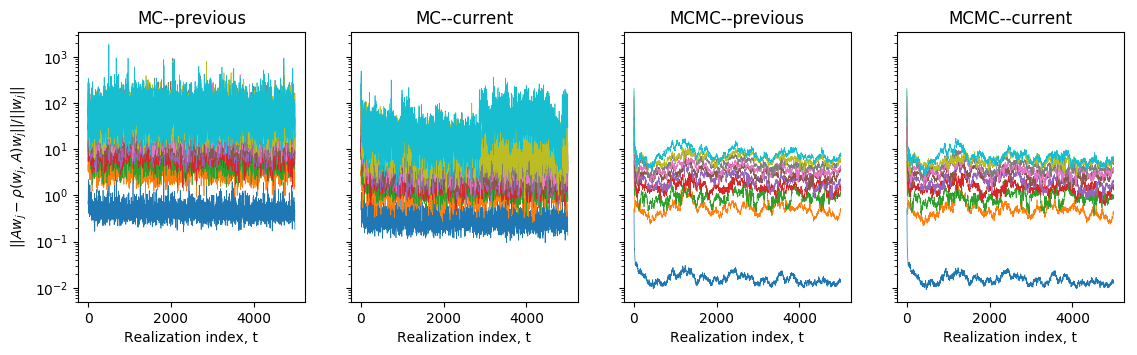
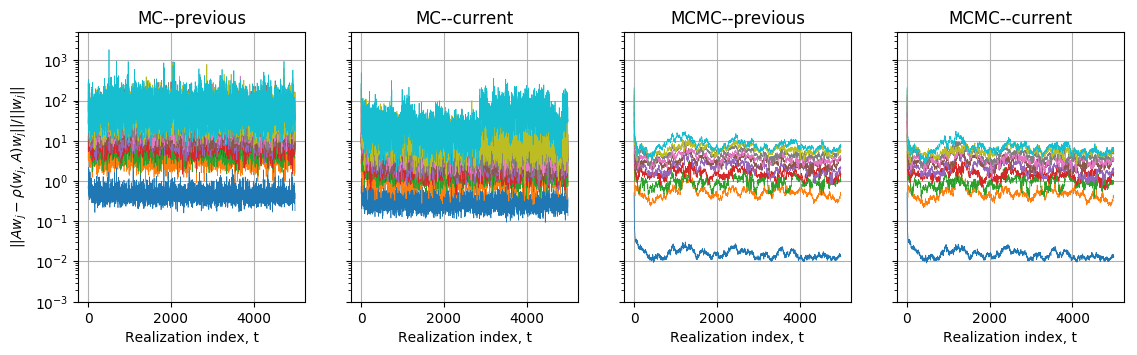
first-commit

diff --git a/examples/example05_recycler_plot.py b/examples/example05_recycler_plot.py
@@ -64,7 +64,7 @@ def plot(smp=None, smp_SpA=None, dcgmo_SpHtA=None, dcgmo_kdim=None, dcgmo_eigval
 
   n = smp["mc"].n
   fig, ax = pl.subplots(2, 4, figsize=(13.5,8), sharex="col")
-  strategy_name = {"a":"strategy #1", "b":"strategy #2", "c":"strategy #3"}
+  strategy_name = {"a":"strategy #1", "b":"strategy #2", "c":"strategy #3", "d":"strategy #4"}
   fig.suptitle("DCGMO -- %s -- Envelopes, conditioning numbers and spectra" %strategy_name[case])
   # Enveloppes
   ax[0,0].set_ylabel("MC sampler")
@@ -174,7 +174,7 @@ def plot(smp=None, smp_SpA=None, dcgmo_SpHtA=None, dcgmo_kdim=None, dcgmo_eigval
     if (i < 3001):
       ax[1,3].semilogy((i+.5,i+.5), (1e-3,5e4),"k", lw=lw)
   ax[1,0].set_ylim(ax[0,0].get_ylim()); ax[1,2].set_ylim(ax[0,0].get_ylim()); ax[1,3].set_ylim(ax[0,0].get_ylim())
-  #ax[0,1].set_ylim(1e-3,1)
+  ax[0,1].set_ylim(1e-3,1)
   ylim0 = ax[0,1].get_ylim(); ylim1 = ax[1,1].get_ylim()
   ylim = (min(ylim0[0], ylim1[0]), max(ylim0[1], ylim1[1]))
   ax[0,1].set_ylim(ylim); ax[1,1].set_ylim(ylim)
@@ -190,6 +190,7 @@ def plot(smp=None, smp_SpA=None, dcgmo_SpHtA=None, dcgmo_kdim=None, dcgmo_eigval
   errors = get_eigen_errors(dcgmo_eigen_error[_dcgmo], dcgmo_kdim[_dcgmo])
   for k in range(errors.shape[0]):
     ax[0].semilogy(errors[k,:], lw=lw)
+  ax[0].set_ylim(1e-3,5e3)
   _dcgmo = ("mc", "current", 0)
   ax[1].set_title("MC--current")
   errors = get_eigen_errors(dcgmo_eigen_error[_dcgmo], dcgmo_kdim[_dcgmo])
@@ -206,6 +207,7 @@ def plot(smp=None, smp_SpA=None, dcgmo_SpHtA=None, dcgmo_kdim=None, dcgmo_eigval
   for k in range(errors.shape[0]):
     ax[3].semilogy(errors[k,:], lw=lw)
   for j in range(4):
+    ax[j].grid()
     ax[j].set_xlabel("Realization index, t")
   ax[0].set_ylabel(r"$||Aw_j-\rho(w_j,A)w_j||/||w_j||$")
   #pl.show()

diff --git a/examples/example05_recycler.py b/examples/example05_recycler.py
@@ -11,7 +11,7 @@ sig2, L = .357, 0.05
 model = "Exp"
 
 kl = 20
-case = "b" # {"a", "b", "c"}
+case = "e" # {"a", "b", "c", "d", "e"}
 
 
 smp, dcg, dcgmo = {}, {}, {}
@@ -28,15 +28,25 @@ cg = solver(n=smp["mc"].n, solver_type="cg")
 if (case == "a"):
   kl_strategy = (0,)
   t_end_kl = (0,)
+  ell_min = kl/2
 elif (case == "b"):
   kl_strategy = (1,)
   t_end_kl = (500,)
+  ell_min = kl/2
 elif (case == "c"):
   kl_strategy = (1,)
   t_end_kl = (1000,)
+  ell_min = kl/2
+elif (case == "d"):
+  kl_strategy = (1,)
+  t_end_kl = (5000,)
+  ell_min = kl-2
+elif (case == "e"):
+  kl_strategy = (1,)
+  t_end_kl = (2500,)
+  ell_min = kl-2
 
 n_kl_strategies = len(kl_strategy)
-ell_min = kl/2
 
 for __smp in ("mc", "mcmc"):
   for which_op in ("previous", "current"):
